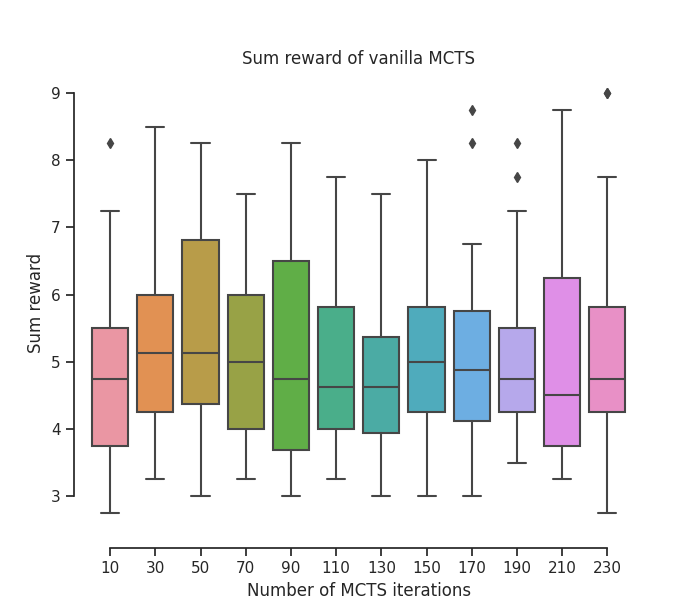
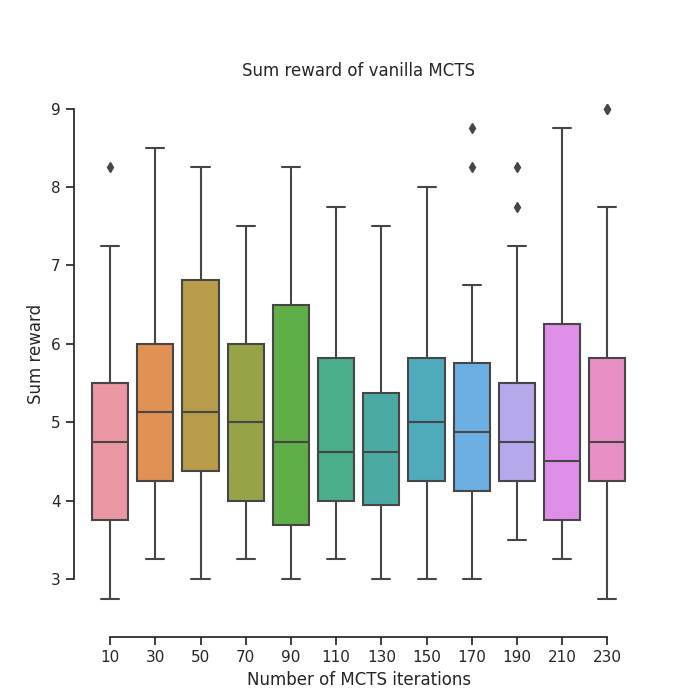
update readme + update vanilla MCTS performance plots

diff --git a/Raw MCTS/Plotting scripts/PlotPerformance_avg_reward.py b/Raw MCTS/Plotting scripts/PlotPerformance_avg_reward.py
@@ -27,7 +27,7 @@ def main():
 
     dfs = pd.concat(dfs)
     
-    rcParams['figure.figsize'] = 7, 6
+    rcParams['figure.figsize'] = 7, 7
     ax = sns.boxplot(data=dfs, x="Number of MCTS iterations", y="Average reward")
     ax.set(title='Average reward of vanilla MCTS')
     sns.despine(offset=10, trim=True)

diff --git a/Raw MCTS/Plotting scripts/PlotPerformance_sum_reward.py b/Raw MCTS/Plotting scripts/PlotPerformance_sum_reward.py
@@ -27,7 +27,7 @@ def main():
 
     dfs = pd.concat(dfs)
     
-    rcParams['figure.figsize'] = 7, 6
+    rcParams['figure.figsize'] = 7, 7
     ax = sns.boxplot(data=dfs, x="Number of MCTS iterations", y="Sum reward")
     ax.set(title='Sum reward of vanilla MCTS')
     sns.despine(offset=10, trim=True)
